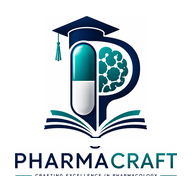
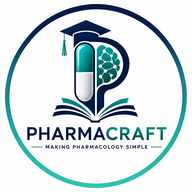
Add files via upload

diff --git a/sw.js b/sw.js
@@ -1,7 +1,7 @@
 /* PharmaCraft Service Worker
    Cache-first for shell, network-first for HTML.
    Version bumped each deploy to force update. */
-const CACHE_VERSION = 'pharmacraft-v96-icon-circle-safe-20260815';
+const CACHE_VERSION = 'pharmacraft-v97-new-circular-logo-20260815';
 const CORE_ASSETS = [
   '/',
   '/index.html',
